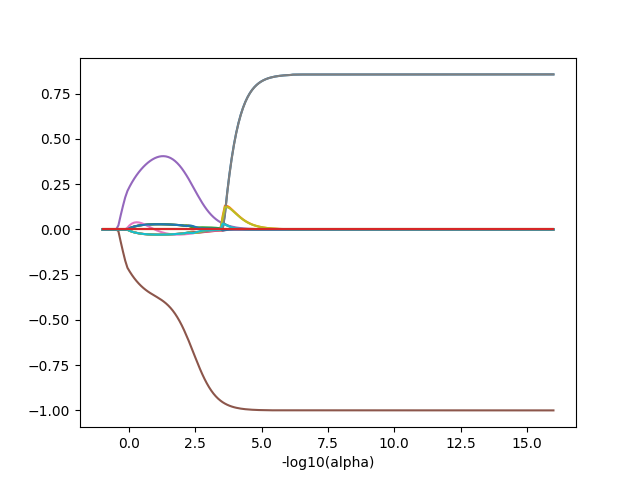
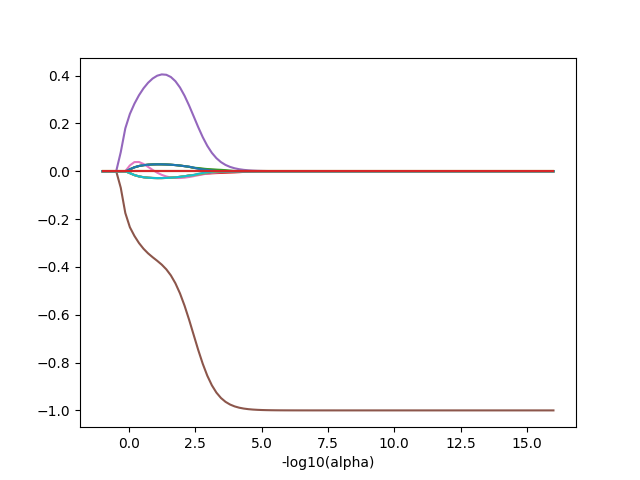
modify the things

diff --git a/test.py b/test.py
@@ -15,9 +15,16 @@ print B.shape
 print A.mean(axis=0)
 print B.mean(axis=0)
 
+num_alpha = 100
+tol = 1e-8
+l1_ratio = 0.5
+max_iter = 3000
+
+disable_single_enet = True
 
 # case 1: performing enet path by calling ElasticNet individually
-alpha_array = np.logspace(-16,1,200)
+alpha_array = np.logspace(-16,1,num_alpha)
+alpha_array = alpha_array[::-1]
 coef_list_1 = []
 coef_list_2 = []
 coef_list_1_m = [] 
@@ -26,32 +33,43 @@ coef_list_1_l = []
 coef_list_2_l = []
 
 
-for alpha in alpha_array:
-    
-    clf = ElasticNet(alpha=alpha, l1_ratio=0.5, tol=1e-6, max_iter=3000, fit_intercept=False)
-    
-    clf_m = MultiTaskElasticNet(alpha=alpha, l1_ratio=0.5, tol=1e-6, max_iter=3000, fit_intercept=False)
-    # get fitted
-    clf_m.fit(A, B)
-    clf.fit(A, B)
-    
-    coef_list_1.append(clf.coef_[0])
-    coef_list_2.append(clf.coef_[1])
-    coef_list_1_m.append(clf_m.coef_[0])
-    coef_list_2_m.append(clf_m.coef_[1])
+for index, alpha in enumerate(alpha_array):
 
-# enet
-plt.figure()
-plt.plot(-np.log10(alpha_array), coef_list_1)
-plt.xlabel('-log10(alpha)')
-plt.savefig('single_run_enet_coef_1.png')
-plt.close()
+    print alpha
 
-plt.figure()
-plt.plot(-np.log10(alpha_array), coef_list_2)
-plt.xlabel('-log10(alpha)')
-plt.savefig('single_run_enet_coef_2.png')
-plt.close()
+
+    if not disable_single_enet:
+        clf = ElasticNet(alpha=alpha, l1_ratio=l1_ratio, tol=tol, max_iter=max_iter, fit_intercept=False)
+        clf.fit(A, B)
+        coef_list_1.append(clf.coef_[0])
+        coef_list_2.append(clf.coef_[1])
+
+    if index == 0:
+        clf_m = MultiTaskElasticNet(alpha=alpha, l1_ratio=l1_ratio, tol=tol, max_iter=max_iter, fit_intercept=False)
+        clf_m.fit(A, B)
+    else:
+        clf_m.warm_start = True
+        clf_m.alpha = alpha
+        clf_m.fit(A, B)
+
+    coef_copy = np.copy(clf_m.coef_)
+
+    coef_list_1_m.append(coef_copy[0])
+    coef_list_2_m.append(coef_copy[1])
+
+if not disable_single_enet:
+    # enet
+    plt.figure()
+    plt.plot(-np.log10(alpha_array), coef_list_1)
+    plt.xlabel('-log10(alpha)')
+    plt.savefig('single_run_enet_coef_1.png')
+    plt.close()
+
+    plt.figure()
+    plt.plot(-np.log10(alpha_array), coef_list_2)
+    plt.xlabel('-log10(alpha)')
+    plt.savefig('single_run_enet_coef_2.png')
+    plt.close()
 
 # m_enet
 plt.figure()
@@ -69,18 +87,18 @@ plt.close()
 
 # case 2: run enet_path to do the same thing
 
-alphas_enet, coefs_enet, _ = enet_path(A, B, max_iter=3000, tol=1e-6, 
-                                       alphas=np.logspace(-16,1,200),
-                                       l1_ratio=0.5, fit_intercept=False)
+alphas_enet, coefs_enet, _ = enet_path(A, B, max_iter=max_iter, tol=tol,
+                                       alphas=np.logspace(-16,1,num_alpha),
+                                       l1_ratio=l1_ratio, fit_intercept=False)
 
 plt.figure()
-plt.plot(np.log10(alpha_array), coefs_enet[0,:,:].T)
+plt.plot(-np.log10(alpha_array), coefs_enet[0,:,:].T)
 plt.xlabel('-log10(alpha)')
 plt.savefig('enet_path_coef_1.png')
 plt.close()
 
 plt.figure()
-plt.plot(np.log10(alpha_array), coefs_enet[1,:,:].T)
+plt.plot(-np.log10(alpha_array), coefs_enet[1,:,:].T)
 plt.xlabel('-log10(alpha)')
 plt.savefig('enet_path_coef_2.png')
 plt.close()
